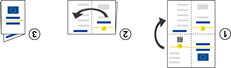
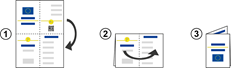
added foldable version

Changed region(s): [[0.0, 0.0, 1.0, 1.0], [0.7576, 0.2059, 0.8182, 0.2353], [0.1818, 0.7647, 0.2424, 0.7941]]

diff --git a/src/main/java/app/coronawarn/quicktest/utils/DccPdfGenerator.java b/src/main/java/app/coronawarn/quicktest/utils/DccPdfGenerator.java
@@ -56,6 +56,7 @@ import org.apache.pdfbox.pdmodel.font.PDTrueTypeFont;
 import org.apache.pdfbox.pdmodel.font.encoding.WinAnsiEncoding;
 import org.apache.pdfbox.pdmodel.graphics.image.JPEGFactory;
 import org.apache.pdfbox.pdmodel.graphics.image.PDImageXObject;
+import org.apache.pdfbox.util.Matrix;
 import org.springframework.core.io.ClassPathResource;
 import org.springframework.stereotype.Service;
 
@@ -84,7 +85,7 @@ public class DccPdfGenerator {
 
 
     /**
-     * GAppends the QR code to the pdf.
+     * Appends the EU certificate including a QR code to the pdf.
      *
      * @param quicktest      Quicktest
      * @param dcc            certificate data
@@ -100,6 +101,7 @@ public class DccPdfGenerator {
     }
 
     private void configCertPage(PDDocument document) {
+        // Add Arial fonts to pdfbox
         final ClassPathResource cs = new ClassPathResource("pdf/fonts/arial.ttf");
         try {
             this.fontArial = PDTrueTypeFont.load(document,
@@ -134,8 +136,12 @@ public class DccPdfGenerator {
         cos.close();
     }
 
-    private void generateQrCode(PDDocument document, PDPageContentStream cos, PDRectangle rect, String text) {
+    private void generateQrCode(PDDocument document, PDPageContentStream cos, PDRectangle rect, String text,
+                                boolean foldable) {
         try {
+            // Print QR Code on the personal info page, aligning to the center of the whole page
+            float x = foldable ? mm2Point(45f) : rect.getWidth() / 2;
+            float y = foldable ? mm2Point(85f) : rect.getHeight() / 2 + mm2Point(85f);
             // Set QR Code size to 6 cm in px
             int qrCodeSizePx = 227;
             float qrCodeImageSizePt = qrCodeSizePx * 0.75f;
@@ -151,11 +157,7 @@ public class DccPdfGenerator {
             MatrixToImageConfig config = new MatrixToImageConfig(0xFF000001, 0xFFFFFFFF);
             BufferedImage bufferedImage = MatrixToImageWriter.toBufferedImage(matrix, config);
             PDImageXObject image = JPEGFactory.createFromImage(document, bufferedImage);
-            cos.drawImage(image,
-              rect.getWidth() / 2,
-              rect.getHeight() - 180,
-                qrCodeImageSizePt,
-                qrCodeImageSizePt);
+            cos.drawImage(image, x, y, qrCodeImageSizePt, qrCodeImageSizePt);
         } catch (Exception e) {
             e.printStackTrace();
         }
@@ -188,6 +190,8 @@ public class DccPdfGenerator {
         cos.endText();
 
         try {
+            // Show flag with German country code
+
             String flag = pdfConfig.getCertFlagPath();
             final ClassPathResource classPathResource = new ClassPathResource(flag);
             final byte[] sampleBytes = IOUtils.toByteArray(Objects.requireNonNull(
@@ -215,14 +219,22 @@ public class DccPdfGenerator {
         }
     }
 
-    private void generateCertTextPage2(PDDocument document, PDPageContentStream cos,
-                                       PDRectangle rect, QuickTest quicktest,
-                                       DccDecodeResult dccDecodeResult)
+    private void generatePersonalInfoPage(PDDocument document, PDPageContentStream cos,
+                                          PDRectangle rect, QuickTest quicktest,
+                                          DccDecodeResult dccDecodeResult, boolean foldable)
       throws IOException {
+        // Top right on single page, bottom left on foldable page
+        float offsetX = foldable ? 0 : rect.getWidth() / 2;
+        float offsetY = foldable ? 0 : rect.getHeight() / 2;
 
         cos.beginText();
         cos.setLeading(leading);
-        cos.newLineAtOffset(rect.getWidth() - mm2Point(42f), rect.getHeight() - 35f);
+        // Set text to the outside of the page, left fot foldable page, right for single page
+        if (foldable) {
+            cos.newLineAtOffset(offsetX + mm2Point(10f), offsetY + mm2Point(138f));
+        } else {
+            cos.newLineAtOffset(offsetX + mm2Point(62f), offsetY + mm2Point(138f));
+        }
 
         float textsize = 9f;
         cos.setFont(fontArial, textsize);
@@ -251,8 +263,8 @@ public class DccPdfGenerator {
               Objects.requireNonNull(classPathResource.getClassLoader())
                 .getResourceAsStream(cert)));
             PDImageXObject pdImage = PDImageXObject.createFromByteArray(document, sampleBytes, "cert");
-            cos.drawImage(pdImage, rect.getWidth() / 2 + leading,
-              rect.getHeight() - (rect.getHeight() / 4) - 75f, 295f - leading * 2, 70f - 7f);
+            cos.drawImage(pdImage, offsetX + mm2Point(5f), offsetY + mm2Point(60f), 295f - leading * 2,
+                70f - 7f);
         } catch (IOException | NullPointerException e) {
             log.error("Certificate image not found!");
         }
@@ -260,8 +272,10 @@ public class DccPdfGenerator {
         LocalDate birthday = LocalDate.parse(quicktest.getBirthday(), dtf);
         cos.beginText();
         cos.setLeading(leading);
-        cos.newLineAtOffset(rect.getWidth() / 2 + 20, rect.getHeight() / 2 + 120);
+        float newlineX = foldable ? 10f : 5f;
+        cos.newLineAtOffset(offsetX + mm2Point(newlineX), offsetY + mm2Point(50f));
 
+        // Print personal info
         List<List<String>> data = List.of(
           List.of(pdfConfig.getCertNameDe(), pdfConfig.getCertNameEn(),
             quicktest.getLastName().concat(", ".concat(quicktest.getFirstName()))),
@@ -297,8 +311,12 @@ public class DccPdfGenerator {
         }
     }
 
-    private void generateCertTextPage3(PDDocument document, PDPageContentStream cos,
-                                       PDRectangle rect) throws IOException {
+    private void generateMemberStateInfoPage(PDDocument document, PDPageContentStream cos,
+                                             PDRectangle rect, boolean foldable) throws IOException {
+        // If foldable, page is rotated by 180 degrees
+        // Bottom left for single page, top right for foldable page
+        float offsetX = 0;
+        float offsetY = foldable ? rect.getHeight() / 2 : 0;
 
         try {
             String flagSep = pdfConfig.getCertFlagSeparatorPath();
@@ -307,29 +325,55 @@ public class DccPdfGenerator {
               Objects.requireNonNull(classPathResource.getClassLoader())
                 .getResourceAsStream(flagSep)));
             PDImageXObject pdImage = PDImageXObject.createFromByteArray(document, sampleBytes, "flagSep");
-            cos.drawImage(pdImage, leading,rect.getHeight() / 2 - 100f, 295f - 2 * leading, 63f);
+            cos.drawImage(pdImage, offsetX + mm2Point(5f),offsetY + mm2Point(125f), 295f - 2 * leading, 63f);
         } catch (IOException | NullPointerException e) {
             log.error("Flag seperator image not found!");
         }
 
         cos.beginText();
+
         cos.setLeading(leading);
-        cos.newLineAtOffset(15f, rect.getHeight() / 2 - 125);
+        cos.newLineAtOffset(offsetX + mm2Point(5f), offsetY + mm2Point(120f));
         float textsize = 9f;
 
         printDescriptionBlock(cos, textsize, pdfConfig.getCertMemberStateDescriptionDe());
 
         cos.newLine();
-        cos.newLine();
+        if (!foldable) {
+            cos.newLine();
+        }
 
         printDescriptionBlock(cos, textsize, pdfConfig.getCertMemberStateDescriptionEn());
 
         cos.newLine();
-        cos.newLine();
+        if (!foldable) {
+            cos.newLine();
+        }
 
         printDescriptionBlock(cos, textsize, pdfConfig.getCertMemberStateFurtherDescription());
 
         cos.endText();
+
+        if (foldable) {
+            // Show folding instructions
+
+            cos.moveTo(offsetX + mm2Point(5f), offsetY + mm2Point(40f));
+            cos.lineTo(offsetX + mm2Point(80f), offsetY + mm2Point(40f));
+            cos.stroke();
+
+            try {
+                String foldingInstruction = pdfConfig.getCertFoldingInstruction();
+                final ClassPathResource classPathResource = new ClassPathResource(foldingInstruction);
+                final byte[] sampleBytes = IOUtils.toByteArray(Objects.requireNonNull(
+                  Objects.requireNonNull(classPathResource.getClassLoader())
+                    .getResourceAsStream(foldingInstruction)));
+                PDImageXObject pdImage = PDImageXObject.createFromByteArray(
+                  document, sampleBytes, "foldingInstruction");
+                cos.drawImage(pdImage, offsetX + mm2Point(15f),offsetY + mm2Point(10f), 208f, 60f);
+            } catch (IOException | NullPointerException e) {
+                log.error("Folding instruction image not found!");
+            }
+        }
     }
 
     /**
@@ -362,14 +406,19 @@ public class DccPdfGenerator {
         }
     }
 
-    private void generateCertTextPage4(PDPageContentStream cos, PDRectangle rect, QuickTest quickTest,
-                                       DccDecodeResult dccDecodeResult) throws IOException {
+    private void generateCertificateInfoPage(PDPageContentStream cos, PDRectangle rect, QuickTest quickTest,
+                                             DccDecodeResult dccDecodeResult, boolean foldable) throws IOException {
+        // If foldable, page is rotated by 180 degrees
+        // Bottom right for single page, top left for foldable page
+
+        float offsetX = rect.getWidth() / 2;
+        float offsetY = foldable ? rect.getHeight() / 2 : 0;
 
         cos.beginText();
         cos.setLeading(leading);
         cos.setFont(fontArialBold, 13f);
         cos.setNonStrokingColor(pantoneReflexBlue);
-        cos.newLineAtOffset(rect.getWidth() / 2 + 20f, rect.getHeight() / 2 - 40);
+        cos.newLineAtOffset(offsetX + mm2Point(5f), offsetY + mm2Point(135f));
         cos.showText(pdfConfig.getCertHeaderTestDe());
         cos.newLineAtOffset(0, -15f);
         cos.setFont(fontArialBold, 13f);

diff --git a/src/test/java/app/coronawarn/quicktest/utils/DccPdfGeneratorTest.java b/src/test/java/app/coronawarn/quicktest/utils/DccPdfGeneratorTest.java
@@ -64,6 +64,7 @@ class DccPdfGeneratorTest {
         when(pdfConfig.getCertCertlogoPath()).thenReturn(pdc.getCertCertlogoPath());
         when(pdfConfig.getCertFlagPath()).thenReturn(pdc.getCertFlagPath());
         when(pdfConfig.getCertFlagSeparatorPath()).thenReturn(pdc.getCertFlagSeparatorPath());
+        when(pdfConfig.getCertFoldingInstruction()).thenReturn(pdc.getCertFoldingInstruction());
         when(pdfConfig.getCertHeaderTestEn()).thenReturn(pdc.getCertHeaderTestEn());
         when(pdfConfig.getCertHeaderTestDe()).thenReturn(pdc.getCertHeaderTestDe());
         when(pdfConfig.getCertTestNameEn()).thenReturn(pdc.getCertTestNameEn());

diff --git a/src/main/java/app/coronawarn/quicktest/config/PdfConfig.java b/src/main/java/app/coronawarn/quicktest/config/PdfConfig.java
@@ -67,6 +67,7 @@ public class PdfConfig {
     private String certFlagPath = "pdf/eu_flag.png";
     private String certCertlogoPath = "pdf/certificate.png";
     private String certFlagSeparatorPath = "pdf/flag_seperator.png";
+    private String certFoldingInstruction = "pdf/folding-instruction.png";
     private String certLineSeparator = " <br> ";
     private String certNameDe = "Name, Vorname";
     private String certNameEn = "Surname(s) and forename(s)";
